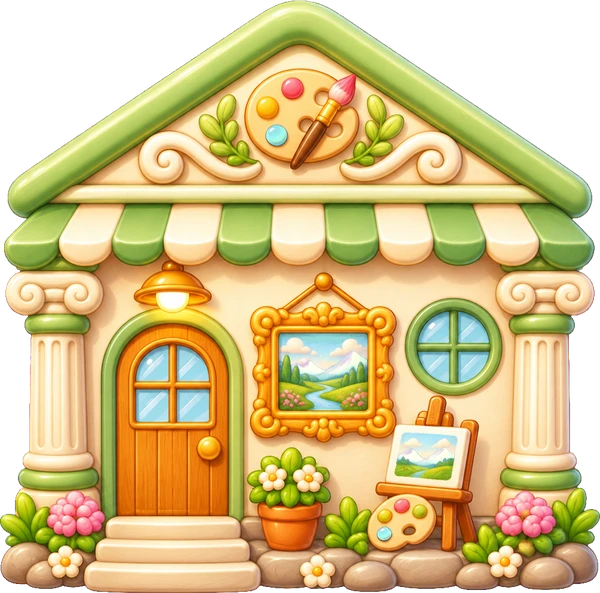
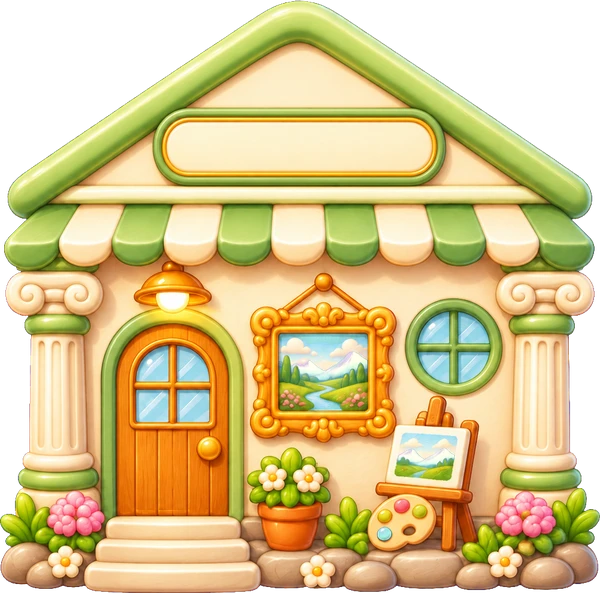
카피온센·카피박람회: 건물 그림에 빈 간판을 넣고 글씨를 간판 안에 배치
Claude-Session: https://claude.ai/code/session_015t7mweLLBzEFYGgsGmysr6

diff --git a/css/app.css b/css/app.css
@@ -2827,3 +2827,5 @@ img.kb-sic { width: 30px; height: 30px; object-fit: contain; display: block; mar
 .so-h-gallery { aspect-ratio: 600 / 593; } .so-h-gallery b { left: 13%; right: 13%; top: 33%; height: 12%; border-radius: 10px; background: #FFFBEE; border: 2.5px solid #7FB069; box-shadow: 0 3px 0 #5E8E4A; color: #4F7A3A; text-shadow: none; }
 .so-h-watch { aspect-ratio: 572 / 600; } .so-h-watch b { left: 21%; right: 20%; top: 33%; height: 13%; color: #C2364A; font-size: 12.5cqw; text-shadow: 1.5px 0 #FFF7E6, -1.5px 0 #FFF7E6, 0 1.5px #FFF7E6, 0 -1.5px #FFF7E6; }
 .so-h-watch b { left: 24%; right: 23.5%; top: 40.3%; height: 8%; font-size: 8.4cqw; }
+.so-h-walk { aspect-ratio: 600 / 559; } .so-h-walk b { left: 26%; right: 26%; top: 26.8%; height: 9%; font-size: 8.4cqw; border: 0; border-radius: 0; background: none; box-shadow: none; color: #6B3A16; text-shadow: 1.5px 0 #FFF1D6, -1.5px 0 #FFF1D6, 0 1.5px #FFF1D6, 0 -1.5px #FFF1D6; }
+.so-h-gallery b { left: 28.5%; right: 28.5%; top: 20.4%; height: 8.2%; font-size: 7.6cqw; border: 0; border-radius: 0; background: none; box-shadow: none; color: #4F7A3A; }
